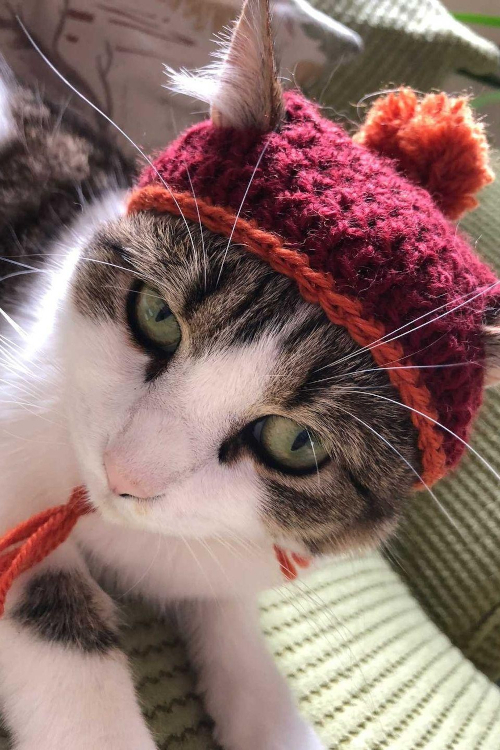
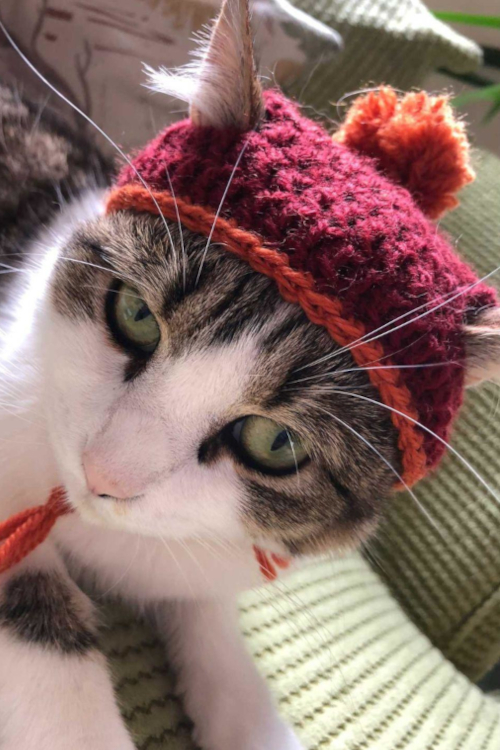
pegasus

diff --git a/content.en/_index.md b/content.en/_index.md
@@ -16,6 +16,4 @@ Welcome to my website. I am a software engineer working on a variety of research
 All original material on this website is licensed under [CC BY-SA 4.0](https://creativecommons.org/licenses/by-sa/4.0/legalcode), unless stated otherwise.
 Unoriginal material will be credited accordingly.
 
-[![ko-fi](https://ko-fi.com/img/githubbutton_sm.svg)](https://ko-fi.com/r3w0p)
-
 {{< /columns >}}

diff --git a/content.en/cat-hats/7.md b/content.en/cat-hats/7.md
@@ -1,0 +1,8 @@
+---
+number: 7
+name: Pegasus
+country: England
+flag: 🏴
+year: 2024
+image: /static/cat-hats/7_pegasus_england_2024.jpg
+---
